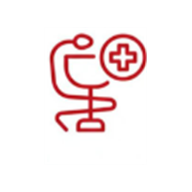
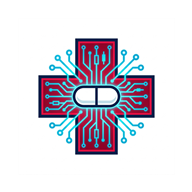
refactor: restaurar icone original do sistema com alto contraste e padrao pwa

Changed region(s): [[0.1875, 0.1562, 0.8125, 0.8125]]

diff --git a/dist/workbox-9c191d2f.js b/dist/workbox-9c191d2f.js
@@ -1,0 +1,1 @@
+define(["exports"],function(t){"use strict";try{self["workbox:core:7.4.0"]&&_()}catch(t){}const e=(t,...e)=>{let s=t;return e.length>0&&(s+=` :: ${JSON.stringify(e)}`),s};class s extends Error{constructor(t,s){super(e(t,s)),this.name=t,this.details=s}}try{self["workbox:routing:7.4.0"]&&_()}catch(t){}const n=t=>t&&"object"==typeof t?t:{handle:t};class i{constructor(t,e,s="GET"){this.handler=n(e),this.match=t,this.method=s}setCatchHandler(t){this.catchHandler=n(t)}}class r extends i{constructor(t,e,s){super(({url:e})=>{const s=t.exec(e.href);if(s&&(e.origin===location.origin||0===s.index))return s.slice(1)},e,s)}}class o{constructor(){this.t=new Map,this.i=new Map}get routes(){return this.t}addFetchListener(){self.addEventListener("fetch",t=>{const{request:e}=t,s=this.handleRequest({request:e,event:t});s&&t.respondWith(s)})}addCacheListener(){self.addEventListener("message",t=>{if(t.data&&"CACHE_URLS"===t.data.type){const{payload:e}=t.data,s=Promise.all(e.urlsToCache.map(e=>{"string"==typeof e&&(e=[e]);const s=new Request(...e);return this.handleRequest({request:s,event:t})}));t.waitUntil(s),t.ports&&t.ports[0]&&s.then(()=>t.ports[0].postMessage(!0))}})}handleRequest({request:t,event:e}){const s=new URL(t.url,location.href);if(!s.protocol.startsWith("http"))return;const n=s.origin===location.origin,{params:i,route:r}=this.findMatchingRoute({event:e,request:t,sameOrigin:n,url:s});let o=r&&r.handler;const c=t.method;if(!o&&this.i.has(c)&&(o=this.i.get(c)),!o)return;let a;try{a=o.handle({url:s,request:t,event:e,params:i})}catch(t){a=Promise.reject(t)}const h=r&&r.catchHandler;return a instanceof Promise&&(this.o||h)&&(a=a.catch(async n=>{if(h)try{return await h.handle({url:s,request:t,event:e,params:i})}catch(t){t instanceof Error&&(n=t)}if(this.o)return this.o.handle({url:s,request:t,event:e});throw n})),a}findMatchingRoute({url:t,sameOrigin:e,request:s,event:n}){const i=this.t.get(s.method)||[];for(const r of i){let i;const o=r.match({url:t,sameOrigin:e,request:s,event:n});if(o)return i=o,(Array.isArray(i)&&0===i.length||o.constructor===Object&&0===Object.keys(o).length||"boolean"==typeof o)&&(i=void 0),{route:r,params:i}}return{}}setDefaultHandler(t,e="GET"){this.i.set(e,n(t))}setCatchHandler(t){this.o=n(t)}registerRoute(t){this.t.has(t.method)||this.t.set(t.method,[]),this.t.get(t.method).push(t)}unregisterRoute(t){if(!this.t.has(t.method))throw new s("unregister-route-but-not-found-with-method",{method:t.method});const e=this.t.get(t.method).indexOf(t);if(!(e>-1))throw new s("unregister-route-route-not-registered");this.t.get(t.method).splice(e,1)}}let c;const a=()=>(c||(c=new o,c.addFetchListener(),c.addCacheListener()),c);function h(t,e,n){let o;if("string"==typeof t){const s=new URL(t,location.href);o=new i(({url:t})=>t.href===s.href,e,n)}else if(t instanceof RegExp)o=new r(t,e,n);else if("function"==typeof t)o=new i(t,e,n);else{if(!(t instanceof i))throw new s("unsupported-route-type",{moduleName:"workbox-routing",funcName:"registerRoute",paramName:"capture"});o=t}return a().registerRoute(o),o}const u={googleAnalytics:"googleAnalytics",precache:"precache-v2",prefix:"workbox",runtime:"runtime",suffix:"undefined"!=typeof registration?registration.scope:""},l=t=>[u.prefix,t,u.suffix].filter(t=>t&&t.length>0).join("-"),f=t=>t||l(u.precache),w=t=>t||l(u.runtime);function d(t,e){const s=e();return t.waitUntil(s),s}try{self["workbox:precaching:7.4.0"]&&_()}catch(t){}function p(t){if(!t)throw new s("add-to-cache-list-unexpected-type",{entry:t});if("string"==typeof t){const e=new URL(t,location.href);return{cacheKey:e.href,url:e.href}}const{revision:e,url:n}=t;if(!n)throw new s("add-to-cache-list-unexpected-type",{entry:t});if(!e){const t=new URL(n,location.href);return{cacheKey:t.href,url:t.href}}const i=new URL(n,location.href),r=new URL(n,location.href);return i.searchParams.set("__WB_REVISION__",e),{cacheKey:i.href,url:r.href}}class y{constructor(){this.updatedURLs=[],this.notUpdatedURLs=[],this.handlerWillStart=async({request:t,state:e})=>{e&&(e.originalRequest=t)},this.cachedResponseWillBeUsed=async({event:t,state:e,cachedResponse:s})=>{if("install"===t.type&&e&&e.originalRequest&&e.originalRequest instanceof Request){const t=e.originalRequest.url;s?this.notUpdatedURLs.push(t):this.updatedURLs.push(t)}return s}}}class g{constructor({precacheController:t}){this.cacheKeyWillBeUsed=async({request:t,params:e})=>{const s=(null==e?void 0:e.cacheKey)||this.h.getCacheKeyForURL(t.url);return s?new Request(s,{headers:t.headers}):t},this.h=t}}let R;async function m(t,e){let n=null;if(t.url){n=new URL(t.url).origin}if(n!==self.location.origin)throw new s("cross-origin-copy-response",{origin:n});const i=t.clone(),r={headers:new Headers(i.headers),status:i.status,statusText:i.statusText},o=function(){if(void 0===R){const t=new Response("");if("body"in t)try{new Response(t.body),R=!0}catch(t){R=!1}R=!1}return R}()?i.body:await i.blob();return new Response(o,r)}function v(t,e){const s=new URL(t);for(const t of e)s.searchParams.delete(t);return s.href}class q{constructor(){this.promise=new Promise((t,e)=>{this.resolve=t,this.reject=e})}}const U=new Set;try{self["workbox:strategies:7.4.0"]&&_()}catch(t){}function L(t){return"string"==typeof t?new Request(t):t}class b{constructor(t,e){this.u={},Object.assign(this,e),this.event=e.event,this.l=t,this.p=new q,this.R=[],this.m=[...t.plugins],this.v=new Map;for(const t of this.m)this.v.set(t,{});this.event.waitUntil(this.p.promise)}async fetch(t){const{event:e}=this;let n=L(t);if("navigate"===n.mode&&e instanceof FetchEvent&&e.preloadResponse){const t=await e.preloadResponse;if(t)return t}const i=this.hasCallback("fetchDidFail")?n.clone():null;try{for(const t of this.iterateCallbacks("requestWillFetch"))n=await t({request:n.clone(),event:e})}catch(t){if(t instanceof Error)throw new s("plugin-error-request-will-fetch",{thrownErrorMessage:t.message})}const r=n.clone();try{let t;t=await fetch(n,"navigate"===n.mode?void 0:this.l.fetchOptions);for(const s of this.iterateCallbacks("fetchDidSucceed"))t=await s({event:e,request:r,response:t});return t}catch(t){throw i&&await this.runCallbacks("fetchDidFail",{error:t,event:e,originalRequest:i.clone(),request:r.clone()}),t}}async fetchAndCachePut(t){const e=await this.fetch(t),s=e.clone();return this.waitUntil(this.cachePut(t,s)),e}async cacheMatch(t){const e=L(t);let s;const{cacheName:n,matchOptions:i}=this.l,r=await this.getCacheKey(e,"read"),o=Object.assign(Object.assign({},i),{cacheName:n});s=await caches.match(r,o);for(const t of this.iterateCallbacks("cachedResponseWillBeUsed"))s=await t({cacheName:n,matchOptions:i,cachedResponse:s,request:r,event:this.event})||void 0;return s}async cachePut(t,e){const n=L(t);var i;await(i=0,new Promise(t=>setTimeout(t,i)));const r=await this.getCacheKey(n,"write");if(!e)throw new s("cache-put-with-no-response",{url:(o=r.url,new URL(String(o),location.href).href.replace(new RegExp(`^${location.origin}`),""))});var o;const c=await this.q(e);if(!c)return!1;const{cacheName:a,matchOptions:h}=this.l,u=await self.caches.open(a),l=this.hasCallback("cacheDidUpdate"),f=l?await async function(t,e,s,n){const i=v(e.url,s);if(e.url===i)return t.match(e,n);const r=Object.assign(Object.assign({},n),{ignoreSearch:!0}),o=await t.keys(e,r);for(const e of o)if(i===v(e.url,s))return t.match(e,n)}(u,r.clone(),["__WB_REVISION__"],h):null;try{await u.put(r,l?c.clone():c)}catch(t){if(t instanceof Error)throw"QuotaExceededError"===t.name&&await async function(){for(const t of U)await t()}(),t}for(const t of this.iterateCallbacks("cacheDidUpdate"))await t({cacheName:a,oldResponse:f,newResponse:c.clone(),request:r,event:this.event});return!0}async getCacheKey(t,e){const s=`${t.url} | ${e}`;if(!this.u[s]){let n=t;for(const t of this.iterateCallbacks("cacheKeyWillBeUsed"))n=L(await t({mode:e,request:n,event:this.event,params:this.params}));this.u[s]=n}return this.u[s]}hasCallback(t){for(const e of this.l.plugins)if(t in e)return!0;return!1}async runCallbacks(t,e){for(const s of this.iterateCallbacks(t))await s(e)}*iterateCallbacks(t){for(const e of this.l.plugins)if("function"==typeof e[t]){const s=this.v.get(e),n=n=>{const i=Object.assign(Object.assign({},n),{state:s});return e[t](i)};yield n}}waitUntil(t){return this.R.push(t),t}async doneWaiting(){for(;this.R.length;){const t=this.R.splice(0),e=(await Promise.allSettled(t)).find(t=>"rejected"===t.status);if(e)throw e.reason}}destroy(){this.p.resolve(null)}async q(t){let e=t,s=!1;for(const t of this.iterateCallbacks("cacheWillUpdate"))if(e=await t({request:this.request,response:e,event:this.event})||void 0,s=!0,!e)break;return s||e&&200!==e.status&&(e=void 0),e}}class C{constructor(t={}){this.cacheName=w(t.cacheName),this.plugins=t.plugins||[],this.fetchOptions=t.fetchOptions,this.matchOptions=t.matchOptions}handle(t){const[e]=this.handleAll(t);return e}handleAll(t){t instanceof FetchEvent&&(t={event:t,request:t.request});const e=t.event,s="string"==typeof t.request?new Request(t.request):t.request,n="params"in t?t.params:void 0,i=new b(this,{event:e,request:s,params:n}),r=this.U(i,s,e);return[r,this.L(r,i,s,e)]}async U(t,e,n){let i;await t.runCallbacks("handlerWillStart",{event:n,request:e});try{if(i=await this._(e,t),!i||"error"===i.type)throw new s("no-response",{url:e.url})}catch(s){if(s instanceof Error)for(const r of t.iterateCallbacks("handlerDidError"))if(i=await r({error:s,event:n,request:e}),i)break;if(!i)throw s}for(const s of t.iterateCallbacks("handlerWillRespond"))i=await s({event:n,request:e,response:i});return i}async L(t,e,s,n){let i,r;try{i=await t}catch(r){}try{await e.runCallbacks("handlerDidRespond",{event:n,request:s,response:i}),await e.doneWaiting()}catch(t){t instanceof Error&&(r=t)}if(await e.runCallbacks("handlerDidComplete",{event:n,request:s,response:i,error:r}),e.destroy(),r)throw r}}class E extends C{constructor(t={}){t.cacheName=f(t.cacheName),super(t),this.C=!1!==t.fallbackToNetwork,this.plugins.push(E.copyRedirectedCacheableResponsesPlugin)}async _(t,e){const s=await e.cacheMatch(t);return s||(e.event&&"install"===e.event.type?await this.O(t,e):await this.N(t,e))}async N(t,e){let n;const i=e.params||{};if(!this.C)throw new s("missing-precache-entry",{cacheName:this.cacheName,url:t.url});{const s=i.integrity,r=t.integrity,o=!r||r===s;n=await e.fetch(new Request(t,{integrity:"no-cors"!==t.mode?r||s:void 0})),s&&o&&"no-cors"!==t.mode&&(this.P(),await e.cachePut(t,n.clone()))}return n}async O(t,e){this.P();const n=await e.fetch(t);if(!await e.cachePut(t,n.clone()))throw new s("bad-precaching-response",{url:t.url,status:n.status});return n}P(){let t=null,e=0;for(const[s,n]of this.plugins.entries())n!==E.copyRedirectedCacheableResponsesPlugin&&(n===E.defaultPrecacheCacheabilityPlugin&&(t=s),n.cacheWillUpdate&&e++);0===e?this.plugins.push(E.defaultPrecacheCacheabilityPlugin):e>1&&null!==t&&this.plugins.splice(t,1)}}E.defaultPrecacheCacheabilityPlugin={cacheWillUpdate:async({response:t})=>!t||t.status>=400?null:t},E.copyRedirectedCacheableResponsesPlugin={cacheWillUpdate:async({response:t})=>t.redirected?await m(t):t};class O{constructor({cacheName:t,plugins:e=[],fallbackToNetwork:s=!0}={}){this.j=new Map,this.k=new Map,this.K=new Map,this.l=new E({cacheName:f(t),plugins:[...e,new g({precacheController:this})],fallbackToNetwork:s}),this.install=this.install.bind(this),this.activate=this.activate.bind(this)}get strategy(){return this.l}precache(t){this.addToCacheList(t),this.T||(self.addEventListener("install",this.install),self.addEventListener("activate",this.activate),this.T=!0)}addToCacheList(t){const e=[];for(const n of t){"string"==typeof n?e.push(n):n&&void 0===n.revision&&e.push(n.url);const{cacheKey:t,url:i}=p(n),r="string"!=typeof n&&n.revision?"reload":"default";if(this.j.has(i)&&this.j.get(i)!==t)throw new s("add-to-cache-list-conflicting-entries",{firstEntry:this.j.get(i),secondEntry:t});if("string"!=typeof n&&n.integrity){if(this.K.has(t)&&this.K.get(t)!==n.integrity)throw new s("add-to-cache-list-conflicting-integrities",{url:i});this.K.set(t,n.integrity)}if(this.j.set(i,t),this.k.set(i,r),e.length>0){const t=`Workbox is precaching URLs without revision info: ${e.join(", ")}\nThis is generally NOT safe. Learn more at https://bit.ly/wb-precache`;console.warn(t)}}}install(t){return d(t,async()=>{const e=new y;this.strategy.plugins.push(e);for(const[e,s]of this.j){const n=this.K.get(s),i=this.k.get(e),r=new Request(e,{integrity:n,cache:i,credentials:"same-origin"});await Promise.all(this.strategy.handleAll({params:{cacheKey:s},request:r,event:t}))}const{updatedURLs:s,notUpdatedURLs:n}=e;return{updatedURLs:s,notUpdatedURLs:n}})}activate(t){return d(t,async()=>{const t=await self.caches.open(this.strategy.cacheName),e=await t.keys(),s=new Set(this.j.values()),n=[];for(const i of e)s.has(i.url)||(await t.delete(i),n.push(i.url));return{deletedURLs:n}})}getURLsToCacheKeys(){return this.j}getCachedURLs(){return[...this.j.keys()]}getCacheKeyForURL(t){const e=new URL(t,location.href);return this.j.get(e.href)}getIntegrityForCacheKey(t){return this.K.get(t)}async matchPrecache(t){const e=t instanceof Request?t.url:t,s=this.getCacheKeyForURL(e);if(s){return(await self.caches.open(this.strategy.cacheName)).match(s)}}createHandlerBoundToURL(t){const e=this.getCacheKeyForURL(t);if(!e)throw new s("non-precached-url",{url:t});return s=>(s.request=new Request(t),s.params=Object.assign({cacheKey:e},s.params),this.strategy.handle(s))}}let x;const N=()=>(x||(x=new O),x);class P extends i{constructor(t,e){super(({request:s})=>{const n=t.getURLsToCacheKeys();for(const i of function*(t,{ignoreURLParametersMatching:e=[/^utm_/,/^fbclid$/],directoryIndex:s="index.html",cleanURLs:n=!0,urlManipulation:i}={}){const r=new URL(t,location.href);r.hash="",yield r.href;const o=function(t,e=[]){for(const s of[...t.searchParams.keys()])e.some(t=>t.test(s))&&t.searchParams.delete(s);return t}(r,e);if(yield o.href,s&&o.pathname.endsWith("/")){const t=new URL(o.href);t.pathname+=s,yield t.href}if(n){const t=new URL(o.href);t.pathname+=".html",yield t.href}if(i){const t=i({url:r});for(const e of t)yield e.href}}(s.url,e)){const e=n.get(i);if(e){return{cacheKey:e,integrity:t.getIntegrityForCacheKey(e)}}}},t.strategy)}}t.NavigationRoute=class extends i{constructor(t,{allowlist:e=[/./],denylist:s=[]}={}){super(t=>this.W(t),t),this.M=e,this.S=s}W({url:t,request:e}){if(e&&"navigate"!==e.mode)return!1;const s=t.pathname+t.search;for(const t of this.S)if(t.test(s))return!1;return!!this.M.some(t=>t.test(s))}},t.cleanupOutdatedCaches=function(){self.addEventListener("activate",t=>{const e=f();t.waitUntil((async(t,e="-precache-")=>{const s=(await self.caches.keys()).filter(s=>s.includes(e)&&s.includes(self.registration.scope)&&s!==t);return await Promise.all(s.map(t=>self.caches.delete(t))),s})(e).then(t=>{}))})},t.clientsClaim=function(){self.addEventListener("activate",()=>self.clients.claim())},t.createHandlerBoundToURL=function(t){return N().createHandlerBoundToURL(t)},t.precacheAndRoute=function(t,e){!function(t){N().precache(t)}(t),function(t){const e=N();h(new P(e,t))}(e)},t.registerRoute=h});

diff --git a/dist/sw.js b/dist/sw.js
@@ -1,0 +1,1 @@
+if(!self.define){let e,i={};const s=(s,n)=>(s=new URL(s+".js",n).href,i[s]||new Promise(i=>{if("document"in self){const e=document.createElement("script");e.src=s,e.onload=i,document.head.appendChild(e)}else e=s,importScripts(s),i()}).then(()=>{let e=i[s];if(!e)throw new Error(`Module ${s} didn’t register its module`);return e}));self.define=(n,r)=>{const o=e||("document"in self?document.currentScript.src:"")||location.href;if(i[o])return;let t={};const d=e=>s(e,o),l={module:{uri:o},exports:t,require:d};i[o]=Promise.all(n.map(e=>l[e]||d(e))).then(e=>(r(...e),t))}}define(["./workbox-9c191d2f"],function(e){"use strict";self.skipWaiting(),e.clientsClaim(),e.precacheAndRoute([{url:"test-api.html",revision:"2ddc9d2c8d52b1dc965d410c7fd558eb"},{url:"index.html",revision:"943138626ec180e287fdcbf1a00fe43d"},{url:"assets/workbox-window.prod.es5-BBnX5xw4.js",revision:null},{url:"assets/index-ZDLLhz5X.css",revision:null},{url:"assets/index-DD7d6TQP.js",revision:null},{url:"favicon.ico",revision:"82f4631489790c970d6e6676ecf2a3bd"},{url:"pwa-192x192.png",revision:"87d141bb19ab77e117163aca59fb72ad"},{url:"pwa-512x512.png",revision:"f6e2337db242e938952a9e554fa1a1af"},{url:"manifest.webmanifest",revision:"25536abb49da4f1558f5760cd1fa5696"}],{}),e.cleanupOutdatedCaches(),e.registerRoute(new e.NavigationRoute(e.createHandlerBoundToURL("index.html")))});
